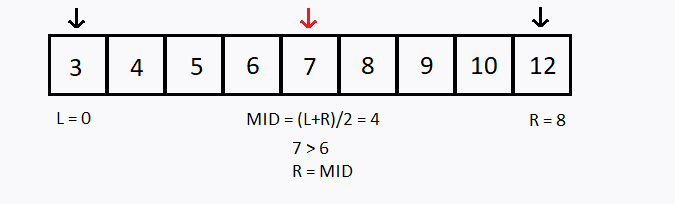
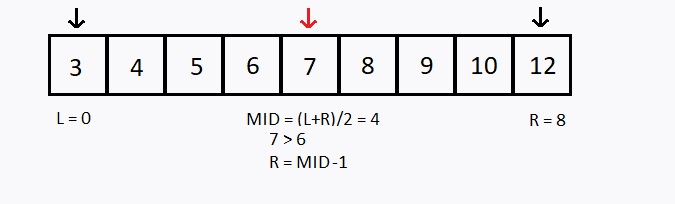
Fixing Binary Search Animation

Changed region(s): [[0.3733, 0.6471, 0.5289, 0.8824]]

diff --git a/aula7.html b/aula7.html
@@ -133,8 +133,7 @@ while ((i < 10) && (!achou)) {
 if (achou)
     printf("%d encontrado na posicao %d.\n", valor, i + 1);
 else
-    printf("%d nao encontrado.\n", valor);
-}</pre>
+    printf("%d nao encontrado.\n", valor);</pre>
                                     <a href="assets/codes/aula7/buscaLinear.c" class="btn btn-pink" download="">Download Code</a>
                                     <a href="https://goo.gl/zkgLT5	" class="btn btn-pink" target="blank">Code Execution</a>
                                     <div id = "lin1"><img src="assets\images\Busca\Linear\lin1.png" class = "img-responsive"></div>
@@ -162,23 +161,22 @@ else
                                         <li><p>Se não, testamos se o elemento procurado é <b>maior</b> que o elemento do meio do vetor. Se for o caso, então passamos a buscar apenas na <b>segunda metade do vetor</b>.</p></li>
                                         <li><p>Caso contrário o valor procurado é igual ao elemento que está no meio do vetor.</p></li>
                                         <li>Esse procedimento é repetido até que o elemento seja encontrado ou não haja mais elementos a testar.</p></li>
-                                        <li><p>Suponha que desejamos buscar o número 6 no mesmo vetor anterior, porém agora foi informado que o vetor está ordenado em ordem crescente, como aplicar a busca binária ?</p></li>
+                                        <li><p>Suponha que desejamos buscar o número 6 no mesmo vetor anterior, porém agora foi informado que o vetor está <b>ordenado</b> em ordem crescente, como aplicar a busca binária ?</p></li>
                                         <div id = "bin1"><img src="assets\images\Busca\Binary\bin1.png" class = "img-responsive"></div>
                                         <div id = "bin2" style="display: none;"><img src="assets\images\Busca\Binary\bin2.png" class = "img-responsive"></div>
                                         <div id = "bin3" style="display: none;"><img src="assets\images\Busca\Binary\bin3.png" class = "img-responsive"></div>
                                         <div id = "bin4" style="display: none;"><img src="assets\images\Busca\Binary\bin4.png" class = "img-responsive"></div>
                                         <div id = "bin5" style="display: none;"><img src="assets\images\Busca\Binary\bin5.png" class = "img-responsive"></div>
                                         <div id = "bin6" style="display: none;"><img src="assets\images\Busca\Binary\bin6.png" class = "img-responsive"></div>
+                                        <div id = "bin7" style="display: none;"><img src="assets\images\Busca\Binary\bin7.png" class = "img-responsive"></div>
+                                        <div id = "bin8" style="display: none;"><img src="assets\images\Busca\Binary\bin8.png" class = "img-responsive"></div>
                                         
-                                        <a  class="btn btn-pink" onclick="animation_prev('bin',6)">Prev</a>
-                                        <a  class="btn btn-pink" style = "margin-left: 50%;" onclick="animation_next('bin',6)">Next</a>
+                                        <a  class="btn btn-pink" onclick="animation_prev('bin',8)">Prev</a>
+                                        <a  class="btn btn-pink" style = "margin-left: 50%;" onclick="animation_next('bin',8)">Next</a>
                                         <p class="note-pink"><b>Observação 1:</b> O vetor precisa estar <b>ordenado</b> para conseguir realizar a busca binária.</p>
                                         <p class="note-pink"><b>Observação 2:</b> Note que, a cada teste, descartamos uma das metades do (sub)vetor pesquisado.</p>
                                         
                                         <pre class = "prettyprint linenums:1 lang-cpp">
-
-
-
 int inicio, fim, meio, valor, achou;
 int conjunto[] = {3,4,5,6,7,8,9,10,12};
 
